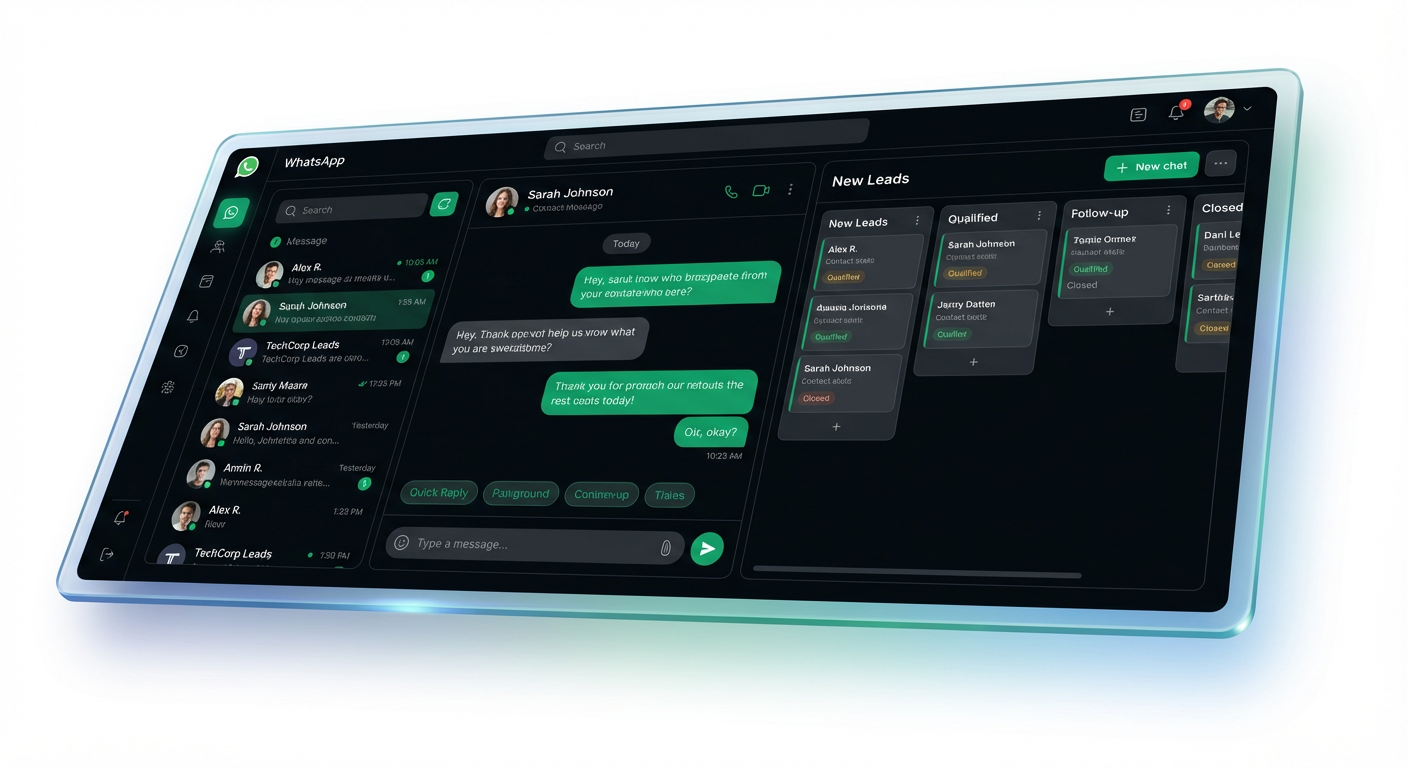
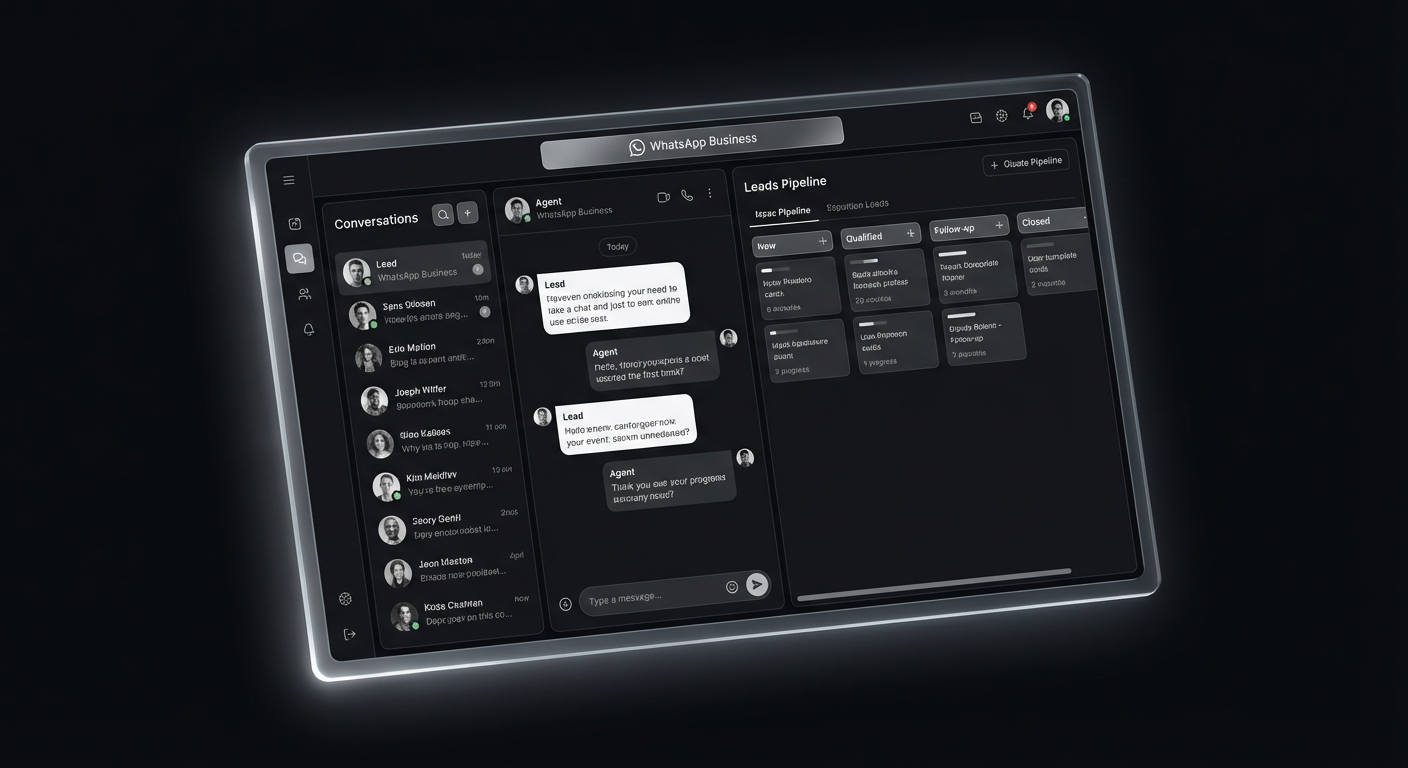
Updated hero-dashboard.webp

diff --git a/src/pages/LandingPage.tsx b/src/pages/LandingPage.tsx
@@ -23,6 +23,17 @@ const stagger = {
   visible: { transition: { staggerChildren: 0.08 } },
 };
 
+function LogoMark({ size = 32 }: { size?: number }) {
+  return (
+    <div
+      className="rounded-lg flex items-center justify-center shadow-lg shadow-black/40 ring-1 ring-white/10"
+      style={{ width: size, height: size, background: '#111827' }}
+    >
+      <Brain className="text-white" style={{ width: size * 0.55, height: size * 0.55 }} strokeWidth={2.4} />
+    </div>
+  );
+}
+
 function Navbar() {
   const navigate = useNavigate();
   return (
@@ -32,11 +43,9 @@ function Navbar() {
       transition={{ duration: 0.5, ease: 'easeOut' }}
       className="fixed top-0 left-0 right-0 z-50 px-4 sm:px-8 py-4"
     >
-      <div className="max-w-7xl mx-auto flex items-center justify-between rounded-2xl border border-white/5 bg-[#0B0E11]/70 backdrop-blur-xl px-4 sm:px-6 py-3">
+      <div className="max-w-7xl mx-auto flex items-center justify-between rounded-2xl border border-white/10 bg-[#0B0E11]/70 backdrop-blur-xl px-4 sm:px-6 py-3">
         <div className="flex items-center gap-2.5">
-          <div className="w-8 h-8 rounded-lg bg-gradient-to-br from-[#13A877] to-[#0c7a55] flex items-center justify-center shadow-lg shadow-emerald-500/20">
-            <Brain className="w-4.5 h-4.5 text-white" strokeWidth={2.5} />
-          </div>
+          <LogoMark size={32} />
           <span className="text-white font-bold text-lg tracking-tight">BrainLead</span>
         </div>
         <nav className="hidden md:flex items-center gap-8 text-sm text-white/70">
@@ -74,17 +83,17 @@ function Hero() {
   return (
     <section ref={ref} className="relative pt-36 pb-24 sm:pt-44 sm:pb-32 px-4 sm:px-8 overflow-hidden">
       <div
-        className="absolute inset-0 -z-10 opacity-60"
+        className="absolute inset-0 -z-10 opacity-70"
         style={{
           background:
-            'radial-gradient(60% 50% at 50% 0%, rgba(19, 168, 119, 0.18) 0%, rgba(11, 14, 17, 0) 70%)',
+            'radial-gradient(60% 50% at 50% 0%, rgba(255,255,255,0.10) 0%, rgba(11, 14, 17, 0) 70%)',
         }}
       />
       <div
-        className="absolute inset-0 -z-10 opacity-[0.07]"
+        className="absolute inset-0 -z-10 opacity-[0.06]"
         style={{
           backgroundImage:
-            'linear-gradient(rgba(255,255,255,0.4) 1px, transparent 1px), linear-gradient(90deg, rgba(255,255,255,0.4) 1px, transparent 1px)',
+            'linear-gradient(rgba(255,255,255,0.45) 1px, transparent 1px), linear-gradient(90deg, rgba(255,255,255,0.45) 1px, transparent 1px)',
           backgroundSize: '64px 64px',
           maskImage: 'radial-gradient(ellipse at 50% 0%, black 30%, transparent 70%)',
         }}
@@ -95,9 +104,9 @@ function Hero() {
           initial={{ opacity: 0, y: 12 }}
           animate={{ opacity: 1, y: 0 }}
           transition={{ delay: 0.1, duration: 0.6 }}
-          className="inline-flex items-center gap-2 px-3 py-1.5 rounded-full border border-white/10 bg-white/5 backdrop-blur text-xs text-white/70 mb-8"
+          className="inline-flex items-center gap-2 px-3 py-1.5 rounded-full border border-white/15 bg-white/5 backdrop-blur text-xs text-white/70 mb-8"
         >
-          <Sparkles className="w-3.5 h-3.5 text-[#13A877]" />
+          <Sparkles className="w-3.5 h-3.5 text-white" />
           Conecte. Organize. Converta.
         </motion.div>
 
@@ -109,7 +118,7 @@ function Hero() {
         >
           Transforme leads em
           <br />
-          <span className="bg-gradient-to-r from-[#13A877] via-emerald-300 to-[#13A877] bg-clip-text text-transparent">
+          <span className="bg-gradient-to-r from-white via-gray-300 to-white bg-clip-text text-transparent">
             vendas reais.
           </span>
         </motion.h1>
@@ -131,7 +140,7 @@ function Hero() {
         >
           <button
             onClick={() => navigate('/login')}
-            className="group inline-flex items-center gap-2 bg-[#13A877] hover:bg-[#0fa06d] text-white font-semibold px-6 py-3.5 rounded-xl shadow-lg shadow-emerald-500/20 transition-all hover:scale-[1.02]"
+            className="group inline-flex items-center gap-2 bg-white text-black hover:bg-white/90 font-semibold px-6 py-3.5 rounded-xl shadow-lg shadow-white/10 transition-all hover:scale-[1.02]"
           >
             Começar gratuitamente
             <ArrowRight className="w-4 h-4 transition-transform group-hover:translate-x-0.5" />
@@ -153,7 +162,7 @@ function Hero() {
         transition={{ delay: 0.7, duration: 0.9, ease: 'easeOut' }}
         className="relative max-w-6xl mx-auto mt-16 sm:mt-20"
       >
-        <div className="absolute -inset-4 bg-gradient-to-r from-[#13A877]/20 via-emerald-400/10 to-[#13A877]/20 blur-3xl rounded-[2.5rem]" />
+        <div className="absolute -inset-4 bg-gradient-to-r from-white/10 via-white/5 to-white/10 blur-3xl rounded-[2.5rem]" />
         <div className="relative rounded-2xl border border-white/10 bg-gradient-to-b from-white/[0.06] to-white/[0.02] backdrop-blur-xl p-2 shadow-2xl">
           <div className="rounded-xl overflow-hidden border border-white/5 bg-[#0B0E11]">
             <img
@@ -177,14 +186,14 @@ function BentoGrid() {
       description: 'Conecte seu WhatsApp e centralize sua coleta de leads em um único painel.',
       span: 'lg:col-span-2',
       visual: (
-        <div className="absolute right-6 bottom-6 flex flex-col gap-2 opacity-90">
-          <div className="self-end max-w-[70%] bg-[#13A877] text-white text-xs px-3 py-2 rounded-2xl rounded-br-sm shadow-lg shadow-emerald-500/20">
+        <div className="absolute right-6 bottom-6 flex flex-col gap-2 opacity-95">
+          <div className="self-end max-w-[70%] bg-white text-black text-xs px-3 py-2 rounded-2xl rounded-br-sm shadow-lg shadow-black/40">
             Olá! Tenho interesse na proposta.
           </div>
-          <div className="self-start max-w-[70%] bg-white/10 backdrop-blur text-white text-xs px-3 py-2 rounded-2xl rounded-bl-sm border border-white/5">
+          <div className="self-start max-w-[70%] bg-white/10 backdrop-blur text-white text-xs px-3 py-2 rounded-2xl rounded-bl-sm border border-white/10">
             Perfeito! Posso te enviar agora.
           </div>
-          <div className="self-end max-w-[70%] bg-[#13A877] text-white text-xs px-3 py-2 rounded-2xl rounded-br-sm shadow-lg shadow-emerald-500/20">
+          <div className="self-end max-w-[70%] bg-white text-black text-xs px-3 py-2 rounded-2xl rounded-br-sm shadow-lg shadow-black/40">
             Vamos fechar.
           </div>
         </div>
@@ -198,9 +207,9 @@ function BentoGrid() {
       visual: (
         <div className="absolute right-5 bottom-5 flex gap-1.5">
           {[
-            { label: 'Novo', count: 12, c: 'bg-white/10' },
-            { label: 'Quente', count: 7, c: 'bg-amber-500/20 border-amber-500/30' },
-            { label: 'Fechado', count: 4, c: 'bg-[#13A877]/20 border-[#13A877]/40' },
+            { label: 'Novo', count: 12, c: 'bg-white/[0.04]' },
+            { label: 'Quente', count: 7, c: 'bg-white/[0.08]' },
+            { label: 'Fechado', count: 4, c: 'bg-white/[0.14]' },
           ].map((col) => (
             <div
               key={col.label}
@@ -209,7 +218,7 @@ function BentoGrid() {
               <div className="text-[9px] text-white/70 mb-1">{col.label}</div>
               <div className="space-y-1">
                 {Array.from({ length: 3 }).map((_, i) => (
-                  <div key={i} className="h-1.5 bg-white/15 rounded" />
+                  <div key={i} className="h-1.5 bg-white/20 rounded" />
                 ))}
               </div>
             </div>
@@ -231,7 +240,7 @@ function BentoGrid() {
               whileInView={{ height: `${h}%` }}
               viewport={{ once: true }}
               transition={{ delay: i * 0.06, duration: 0.5, ease: 'easeOut' }}
-              className="w-3 bg-gradient-to-t from-[#13A877] to-emerald-300 rounded-t"
+              className="w-3 bg-gradient-to-t from-white/30 to-white rounded-t"
             />
           ))}
         </div>
@@ -271,7 +280,7 @@ function BentoGrid() {
         className="max-w-6xl mx-auto"
       >
         <motion.div variants={fadeUp} transition={{ duration: 0.6 }} className="text-center mb-14">
-          <span className="text-xs uppercase tracking-[0.18em] text-[#13A877] font-semibold">
+          <span className="text-xs uppercase tracking-[0.18em] text-white/60 font-semibold">
             Recursos
           </span>
           <h2 className="mt-3 text-3xl sm:text-5xl font-extrabold tracking-tight text-white">
@@ -296,12 +305,12 @@ function BentoGrid() {
                   className="absolute inset-0 opacity-0 group-hover:opacity-100 transition-opacity duration-500 pointer-events-none"
                   style={{
                     background:
-                      'radial-gradient(400px circle at var(--mx, 50%) var(--my, 50%), rgba(19,168,119,0.12), transparent 70%)',
+                      'radial-gradient(400px circle at var(--mx, 50%) var(--my, 50%), rgba(255,255,255,0.08), transparent 70%)',
                   }}
                 />
                 <div className="relative">
-                  <div className="w-10 h-10 rounded-xl bg-[#13A877]/10 border border-[#13A877]/30 flex items-center justify-center mb-4">
-                    <Icon className="w-5 h-5 text-[#13A877]" strokeWidth={2.2} />
+                  <div className="w-10 h-10 rounded-xl bg-white/5 border border-white/10 flex items-center justify-center mb-4">
+                    <Icon className="w-5 h-5 text-white" strokeWidth={2.2} />
                   </div>
                   <h3 className="text-lg sm:text-xl font-bold text-white mb-2">{f.title}</h3>
                   <p className="text-sm text-white/55 leading-relaxed max-w-sm">{f.description}</p>
@@ -345,7 +354,7 @@ function HowItWorks() {
         className="max-w-6xl mx-auto"
       >
         <motion.div variants={fadeUp} transition={{ duration: 0.6 }} className="text-center mb-12">
-          <span className="text-xs uppercase tracking-[0.18em] text-[#13A877] font-semibold">
+          <span className="text-xs uppercase tracking-[0.18em] text-white/60 font-semibold">
             Como funciona
           </span>
           <h2 className="mt-3 text-3xl sm:text-5xl font-extrabold tracking-tight text-white">
@@ -366,7 +375,7 @@ function HowItWorks() {
                   0{i + 1}
                 </div>
                 <div className="w-10 h-10 rounded-xl bg-white/5 border border-white/10 flex items-center justify-center mb-4">
-                  <Icon className="w-5 h-5 text-[#13A877]" />
+                  <Icon className="w-5 h-5 text-white" />
                 </div>
                 <h3 className="text-lg font-bold text-white mb-1.5">{s.title}</h3>
                 <p className="text-sm text-white/55 leading-relaxed">{s.desc}</p>
@@ -420,10 +429,10 @@ function Pricing() {
   return (
     <section id="planos" className="relative px-4 sm:px-8 py-24 sm:py-32">
       <div
-        className="absolute inset-0 -z-10 opacity-50"
+        className="absolute inset-0 -z-10 opacity-60"
         style={{
           background:
-            'radial-gradient(50% 50% at 50% 50%, rgba(19,168,119,0.10) 0%, rgba(11,14,17,0) 70%)',
+            'radial-gradient(50% 50% at 50% 50%, rgba(255,255,255,0.08) 0%, rgba(11,14,17,0) 70%)',
         }}
       />
       <motion.div
@@ -434,7 +443,7 @@ function Pricing() {
         className="max-w-6xl mx-auto"
       >
         <motion.div variants={fadeUp} transition={{ duration: 0.6 }} className="text-center mb-14">
-          <span className="text-xs uppercase tracking-[0.18em] text-[#13A877] font-semibold">
+          <span className="text-xs uppercase tracking-[0.18em] text-white/60 font-semibold">
             Planos
           </span>
           <h2 className="mt-3 text-3xl sm:text-5xl font-extrabold tracking-tight text-white">
@@ -454,12 +463,26 @@ function Pricing() {
               whileHover={{ y: -6 }}
               className={`relative rounded-2xl p-7 backdrop-blur-xl flex flex-col ${
                 plan.highlight
-                  ? 'bg-gradient-to-b from-[#13A877]/[0.08] to-white/[0.02] border-2 border-[#13A877] shadow-2xl shadow-emerald-500/10'
+                  ? 'bg-gradient-to-b from-white/[0.10] to-white/[0.02] border-2 border-white shadow-2xl shadow-white/10'
                   : 'bg-white/[0.03] border border-white/10'
               }`}
             >
+              {plan.highlight && (
+                <div
+                  className="pointer-events-none absolute -inset-px rounded-2xl opacity-60"
+                  style={{
+                    background:
+                      'linear-gradient(180deg, rgba(255,255,255,0.25), rgba(255,255,255,0) 40%)',
+                    mask: 'linear-gradient(#000, #000) content-box, linear-gradient(#000, #000)',
+                    WebkitMask: 'linear-gradient(#000, #000) content-box, linear-gradient(#000, #000)',
+                    maskComposite: 'exclude',
+                    WebkitMaskComposite: 'xor',
+                    padding: 1,
+                  }}
+                />
+              )}
               {plan.badge && (
-                <div className="absolute -top-3 left-1/2 -translate-x-1/2 bg-[#13A877] text-white text-xs font-semibold px-3 py-1 rounded-full shadow-lg shadow-emerald-500/30">
+                <div className="absolute -top-3 left-1/2 -translate-x-1/2 bg-white text-black text-xs font-semibold px-3 py-1 rounded-full shadow-lg shadow-black/40">
                   {plan.badge}
                 </div>
               )}
@@ -475,8 +498,8 @@ function Pricing() {
               <ul className="mt-6 space-y-3 flex-1">
                 {features.map((f) => (
                   <li key={f} className="flex items-start gap-2.5 text-sm text-white/75">
-                    <span className="mt-0.5 w-4 h-4 rounded-full bg-[#13A877]/15 border border-[#13A877]/40 flex items-center justify-center flex-shrink-0">
-                      <Check className="w-2.5 h-2.5 text-[#13A877]" strokeWidth={3} />
+                    <span className="mt-0.5 w-4 h-4 rounded-full bg-white/10 border border-white/20 flex items-center justify-center flex-shrink-0">
+                      <Check className="w-2.5 h-2.5 text-white" strokeWidth={3} />
                     </span>
                     {f}
                   </li>
@@ -487,7 +510,7 @@ function Pricing() {
                 onClick={() => navigate('/login')}
                 className={`mt-7 w-full font-semibold py-3 rounded-xl transition-all hover:scale-[1.02] ${
                   plan.highlight
-                    ? 'bg-[#13A877] hover:bg-[#0fa06d] text-white shadow-lg shadow-emerald-500/30'
+                    ? 'bg-white hover:bg-white/90 text-black shadow-lg shadow-white/15'
                     : 'bg-black hover:bg-black/80 text-white border border-white/10'
                 }`}
               >
@@ -510,13 +533,13 @@ function CTA() {
         whileInView={{ opacity: 1, y: 0 }}
         viewport={{ once: true }}
         transition={{ duration: 0.7 }}
-        className="relative max-w-5xl mx-auto rounded-3xl overflow-hidden border border-white/10 bg-gradient-to-br from-[#13A877]/15 via-white/[0.03] to-white/[0.02] backdrop-blur-xl p-10 sm:p-16 text-center"
+        className="relative max-w-5xl mx-auto rounded-3xl overflow-hidden border border-white/10 bg-gradient-to-br from-white/[0.08] via-white/[0.03] to-white/[0.02] backdrop-blur-xl p-10 sm:p-16 text-center"
       >
         <div
-          className="absolute inset-0 -z-10 opacity-60"
+          className="absolute inset-0 -z-10 opacity-70"
           style={{
             background:
-              'radial-gradient(50% 80% at 50% 100%, rgba(19,168,119,0.25) 0%, rgba(11,14,17,0) 70%)',
+              'radial-gradient(50% 80% at 50% 100%, rgba(255,255,255,0.18) 0%, rgba(11,14,17,0) 70%)',
           }}
         />
         <h2 className="text-3xl sm:text-5xl font-extrabold tracking-tight text-white">
@@ -527,7 +550,7 @@ function CTA() {
         </p>
         <button
           onClick={() => navigate('/login')}
-          className="group mt-8 inline-flex items-center gap-2 bg-[#13A877] hover:bg-[#0fa06d] text-white font-semibold px-7 py-3.5 rounded-xl shadow-lg shadow-emerald-500/30 transition-all hover:scale-[1.02]"
+          className="group mt-8 inline-flex items-center gap-2 bg-white hover:bg-white/90 text-black font-semibold px-7 py-3.5 rounded-xl shadow-lg shadow-white/10 transition-all hover:scale-[1.02]"
         >
           Começar Agora
           <ArrowRight className="w-4 h-4 transition-transform group-hover:translate-x-0.5" />
@@ -542,9 +565,7 @@ function Footer() {
     <footer className="px-4 sm:px-8 py-10 border-t border-white/5">
       <div className="max-w-6xl mx-auto flex flex-col sm:flex-row items-center justify-between gap-4">
         <div className="flex items-center gap-2.5">
-          <div className="w-7 h-7 rounded-lg bg-gradient-to-br from-[#13A877] to-[#0c7a55] flex items-center justify-center">
-            <Brain className="w-4 h-4 text-white" strokeWidth={2.5} />
-          </div>
+          <LogoMark size={28} />
           <span className="text-white/80 font-semibold text-sm">BrainLead</span>
         </div>
         <p className="text-xs text-white/40">
